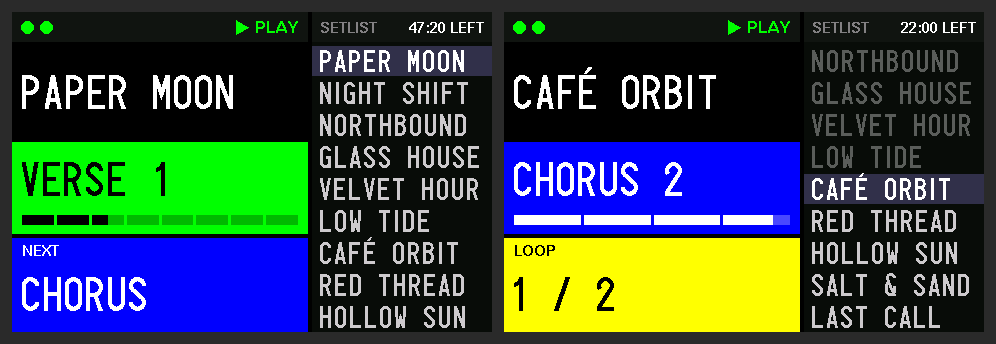
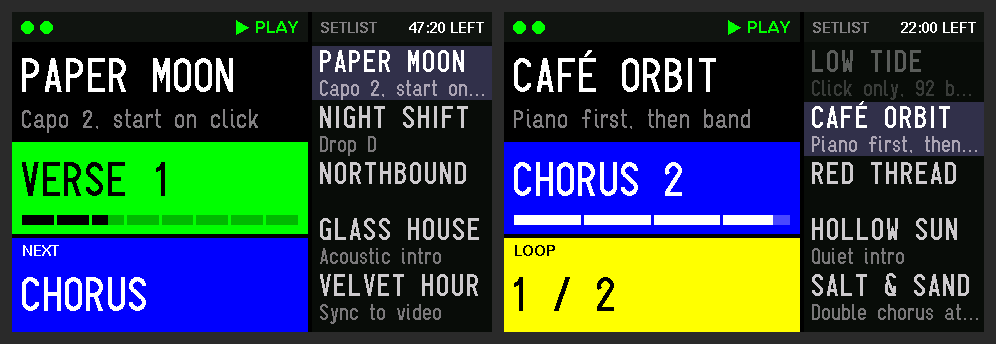
feat(3.5): show song descriptions under song name and setlist entries
Subscribe to AbleSet's activeSongDescription (also resynced) and
songDescriptions (loaded with the setlist). The description is drawn in
a smaller dim font under the song name on the left and under every
setlist entry, faded towards the row background so it stays secondary.

SHOW_SONG_DESCRIPTIONS = false restores the previous layout with 9
one-line setlist rows instead of 5 two-line ones. Descriptions keep
their case and are cut to their first line.

Also: receive buffer 4 -> 8 KB, README and screenshots updated,
CLAUDE.md build commands fixed to use the esp32:esp32 core and the
Arduino IDE's bundled arduino-cli.

diff --git a/CLAUDE.md b/CLAUDE.md
@@ -31,21 +31,25 @@ Toolchain:
 - **GFX Library for Arduino** (moononournation) 1.6.x.
 - **U8g2** (olikraus), 3.5" only, for its Logisoso fonts.
 
-arduino-cli:
+arduino-cli. On this machine there is no standalone install: use the one
+bundled with the Arduino IDE, with the IDE's config so it finds the cores.
+The esp32 core is installed as `esp32:esp32` (`arduino-cli core list` to check).
 
 ```sh
+alias arduino-cli='"/Applications/Arduino IDE.app/Contents/Resources/app/lib/backend/resources/arduino-cli" --config-file ~/.arduinoIDE/arduino-cli.yaml'
+
 # 1.47" — default partition. The sketch is about 87% of 1.25 MB; if it outgrows
 # it, use PartitionScheme=min_spiffs.
-arduino-cli compile --fqbn espressif:esp32:esp32c5:CDCOnBoot=cdc \
+arduino-cli compile --fqbn esp32:esp32:esp32c5:CDCOnBoot=cdc \
   esp32-c5-lcd-1.47/ableset_display_147
 
 # 3.5" — needs PSRAM for the framebuffer, and a bigger app partition
 arduino-cli compile \
-  --fqbn espressif:esp32:esp32c5:CDCOnBoot=cdc,PSRAM=enabled,PartitionScheme=huge_app \
+  --fqbn esp32:esp32:esp32c5:CDCOnBoot=cdc,PSRAM=enabled,PartitionScheme=huge_app \
   esp32-c5-touch-lcd-3.5/ableset_display_35
 ```
 
-Check the option names with `arduino-cli board details -b espressif:esp32:esp32c5`. Some core installs don't offer `huge_app`; `min_spiffs` or a No-OTA scheme also fits.
+Check the option names with `arduino-cli board details -b esp32:esp32:esp32c5`. Some core installs don't offer `huge_app`; `min_spiffs` or a No-OTA scheme also fits.
 
 ### Arduino prototype generation (bites every time)
 
@@ -106,14 +110,14 @@ AbleSet OSC port: 39051. Docs: https://ableset.com/docs/osc
 - **Not in the resync:**
   - `beatsPosition`: AbleSet streams it constantly.
   - `remainingTimeInSet`.
-  - `setlist/songs`: large, so loaded at subscribe and when it changes.
+  - `setlist/songs` and `setlist/songDescriptions`: large, so loaded at subscribe and when they change.
 - **`/getHeartbeat`** every 2 s. AbleSet counts as gone after 10 s of silence (`ABLESET_TIMEOUT_MS`).
 - **Values used:**
   - Song and section: song name and index, section name and colour, next section, next song.
   - Loop state: loop flag, counter, loop count.
   - Progress: `activeSectionStart`/`End`, `global/beatsPosition`, `global/timeSignature`.
   - Laptop power: `computer/onBattery`.
-  - 3.5" only: `setlist/songs` and `remainingTimeInSet`.
+  - 3.5" only: `setlist/songs`, `setlist/songDescriptions`, `activeSongDescription` and `remainingTimeInSet`. Descriptions keep their case and are cut to their first line (`cleanDesc()`); `SHOW_SONG_DESCRIPTIONS` switches the setlist between 5 two-line rows and 9 one-line rows.
 - **Colours** are matched by name against a hand-picked palette (`PALETTE`), with an HSV fallback from the hex value. Colour logs are printed only when the resolved colour changes.
 - **No "stop" value.** AbleSet doesn't expose setlist stop markers over OSC (`activeSongStopDescription` is null), and project scripts can only read OSC values, so they can't provide one either.
 - **Name tags.** Song and section names can carry tags in braces (`Song {Drop}`). `cleanName()` strips them for display.

diff --git a/README.md b/README.md
@@ -9,7 +9,7 @@ Two versions:
 | | [ESP32-C5-LCD-1.47](esp32-c5-lcd-1.47) | [ESP32-C5-Touch-LCD-3.5](esp32-c5-touch-lcd-3.5) |
 |---|---|---|
 | Screen | 1.47" 320×172 | 3.5" 480×320, touch, in a case |
-| Shows | Song, section with progress strip, next section / next song, loop counter, laptop power state | Same, plus the setlist with time left |
+| Shows | Song, section with progress strip, next section / next song, loop counter, laptop power state | Same, plus song descriptions and the setlist with time left |
 | Board | [Waveshare ESP32-C5-LCD-1.47](https://www.waveshare.com/esp32-c5-lcd-1.47.htm) | [Waveshare ESP32-C5-Touch-LCD-3.5](https://www.waveshare.com/esp32-c5-touch-lcd-3.5.htm) |
 
 ## Screenshots
@@ -18,9 +18,13 @@ Two versions:
 
 Board: [Waveshare ESP32-C5-Touch-LCD-3.5](https://www.waveshare.com/esp32-c5-touch-lcd-3.5.htm).
 
-Playing, then inside a 4-bar loop:
+Playing, then inside a 4-bar loop. Song descriptions sit under the names, dimmer than the name:
 
 ![3.5" display: playing a verse with the setlist on the right, then a chorus inside a 4-bar loop](docs/3.5-playing-and-loop.png)
+
+Song descriptions on (default), then off with `SHOW_SONG_DESCRIPTIONS = false`, which fits 9 songs in the setlist:
+
+![3.5" display with song descriptions under the names, then the same screen without descriptions and a longer setlist](docs/3.5-descriptions-on-off.png)
 
 Laptop power state in the status bar:
 
@@ -54,6 +58,7 @@ The display joins your Wi-Fi, finds AbleSet on the network on its own (no IP add
 ### 3.5" version only
 
 - **Setlist** on the right, with the time left in the set.
+- **Song descriptions** from AbleSet, in a smaller dim font under the song name and under each setlist entry (`SHOW_SONG_DESCRIPTIONS = false` to hide them and fit 9 songs instead of 5).
 - Accented names display as-is (the 1.47" uses a built-in font, so `é` shows as `E`).
 
 ## Setup
@@ -99,6 +104,7 @@ Each sketch has a config block at the top. The most useful settings:
 | `SHOW_PROGRESS` | 1.47" only: `false` hides the progress strip |
 | `WIFI_ROUNDS` | Passes through the network list before showing Retry |
 | `USE_RGB_LED` | 1.47" only: status colour on the on-board LED |
+| `SHOW_SONG_DESCRIPTIONS` | 3.5" only: `false` hides song descriptions, so the setlist shows 9 songs instead of 5 |
 | `LEFT_FONT`, `SIDE_FONT` | 3.5" only: text sizes |
 
 ## Troubleshooting
